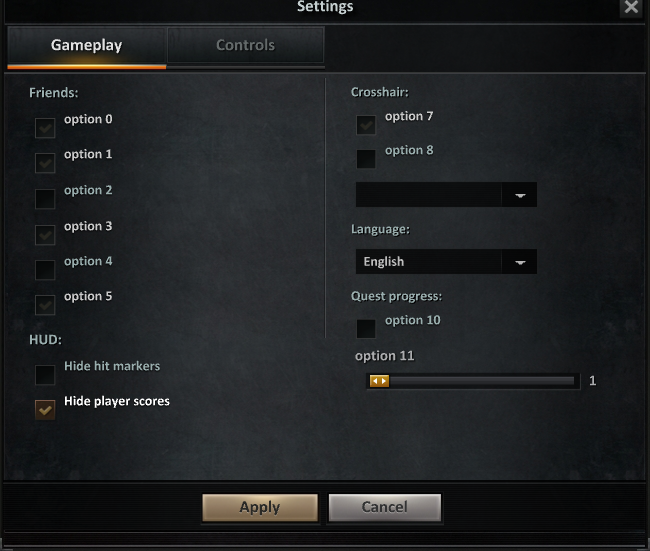
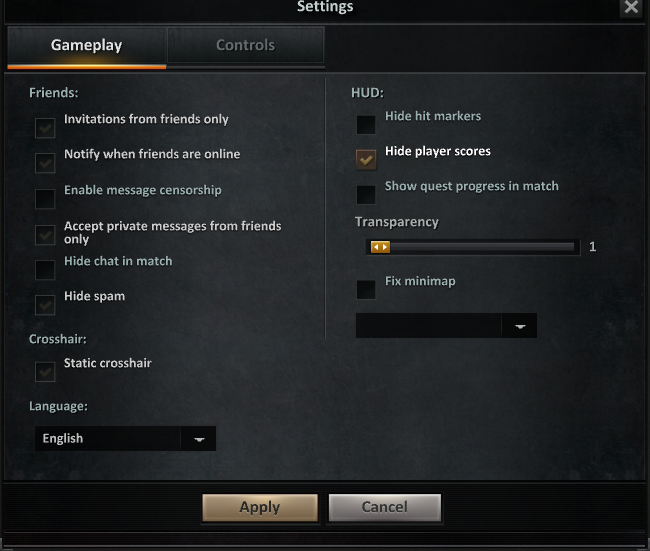
Settings: quest progress and minimap in the HUD group
The owner (2026-10-31): "quest progress I think is part of the HUD
too", "and map". The Gameplay tab's columns: left "Friends:",
"Crosshair:" (the static crosshair), "Language:"; right "HUD:": Hide hit
markers, Hide player scores, the stock quest progress checkbox and its
transparency slider, the stock "Fix minimap" checkbox and minimap
position list. The stock controls keep their bindings; the "Quest
progress:" heading is not shown. Spacing and edges from the timeline's
own places, as before.

- harness: the new columns, edges, spacing, no overlaps (the slider by
  its drawn bounds), every language's labels and the Language note fitting
- Finnish restart note shortened ("Vaatii uudelleenkäynnistyksen."): the
  old one took two lines below the window's bottom
- spec and screenshots

diff --git a/srp-026g/docs/notes/hide-hit-markers-scores.md b/srp-026g/docs/notes/hide-hit-markers-scores.md
@@ -8,17 +8,26 @@ The owner (2026-10-30, for release 40): "allow hiding hit markers (UI change) an
 
 ## The options
 
-- **Where:** Settings, Gameplay, a group of its own, "HUD:", right under "Friends:" in the left
-  column: "Hide hit markers", "Hide player scores" (`../images/hide-options-settings.png`). The
-  tab's own look: the heading as "Friends:" is, plain checkboxes, the same spacing.
-- **The tab's groups** (the owner, 2026-10-31): left "Friends:", "HUD:"; right "Crosshair:",
-  "Language:", "Quest progress:". Each column's headings share its left edge, its controls the
-  stock controls' edge; the gap before each group is the tab's own (the timeline's, read once).
-  Language (patch 79's list) is a group under "Crosshair:" now, its label a heading; its "Applies
-  after restart." note shows under the list and moves "Quest progress:" down while it shows. The
-  old bottom panel (the hidden seeding and statistics options') is not drawn on this tab: the
-  columns run on over it. One column for all four did not fit the window (about 700 px of groups
-  for 400). The column divider is the timeline's and stops where the panel began.
+- **Where:** Settings, Gameplay, a group of its own, "HUD:", at the top of the right column
+  (`../images/hide-options-settings.png`): "Hide hit markers", "Hide player scores", then the
+  stock quest progress controls ("Show quest progress in match" and its "Transparency" slider) and
+  the stock minimap controls ("Fix minimap" and the minimap position list). The tab's own look:
+  the heading as "Friends:" is, plain checkboxes, the same spacing.
+- **The tab's groups** (the owner, 2026-10-31: "quest progress I think is part of the HUD too",
+  "and map"): left "Friends:", "Crosshair:" (now only "Static crosshair"), "Language:"; right
+  "HUD:". The stock controls keep their own bindings (the exe binds them by name); only their
+  places change, and the "Quest progress:" heading is not shown. Each column's headings share its
+  left edge, its controls the stock controls' edge (a list one pixel further, as the timeline has
+  it); the spacing is the timeline's own, read once: the gap before a group, a heading's first
+  control, the checkbox step, the slider's distance from its checkbox (its bar is its row, the
+  next control a step under it), the minimap list's under its checkbox. Language (patch 79's list)
+  is a group under "Crosshair:", its label a heading, its "Applies after restart." note under the
+  list while it shows. The old bottom panel (the hidden seeding and statistics options') is not
+  drawn on this tab. One column for all of it did not fit the window; the column divider is the
+  timeline's and stops where that panel began.
+- **The map settings:** the game has two, both from the stock "Crosshair:" group of this tab:
+  "Fix minimap" (`_setter_static_minimap`) and the minimap position list
+  (`_setter_static_minimap_position`: off, lower left, upper left). No other tab has map settings.
 - **Texts:** dictionary keys in all ten languages: the heading `st_srp_options_hud` ("HUD:";
   Russian, Ukrainian, Belarusian "Интерфейс боя:"/"Інтерфейс бою:"/"Інтэрфейс бою:", not
   "Interface", which the Interface level selector may take), the labels
